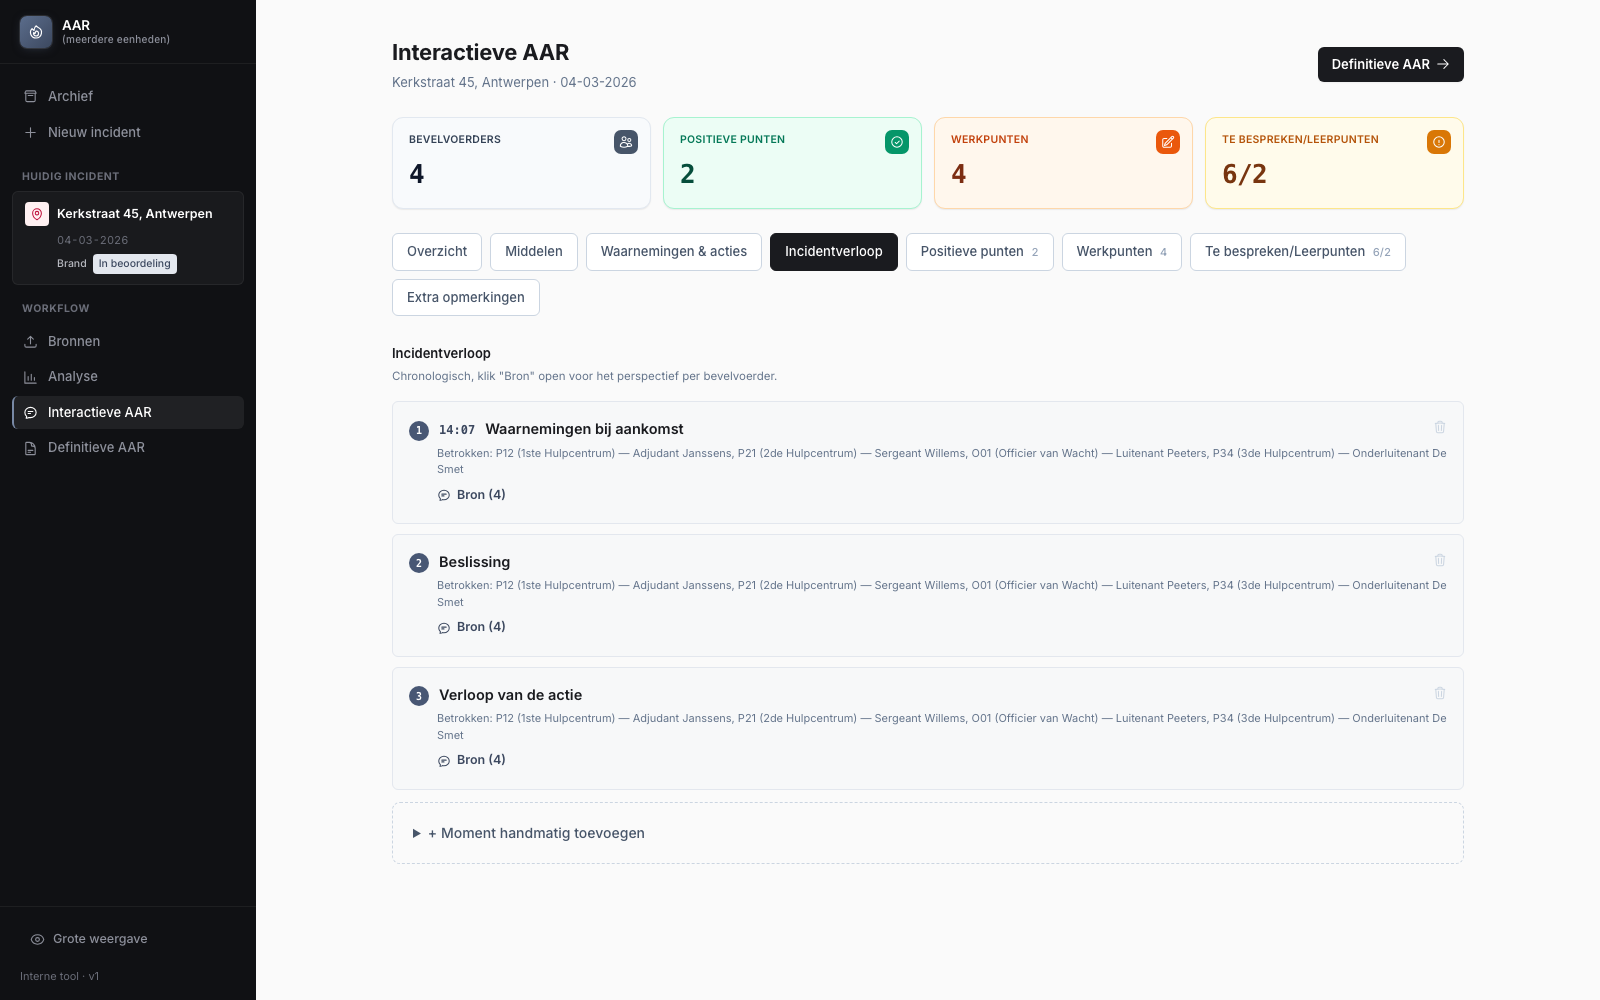
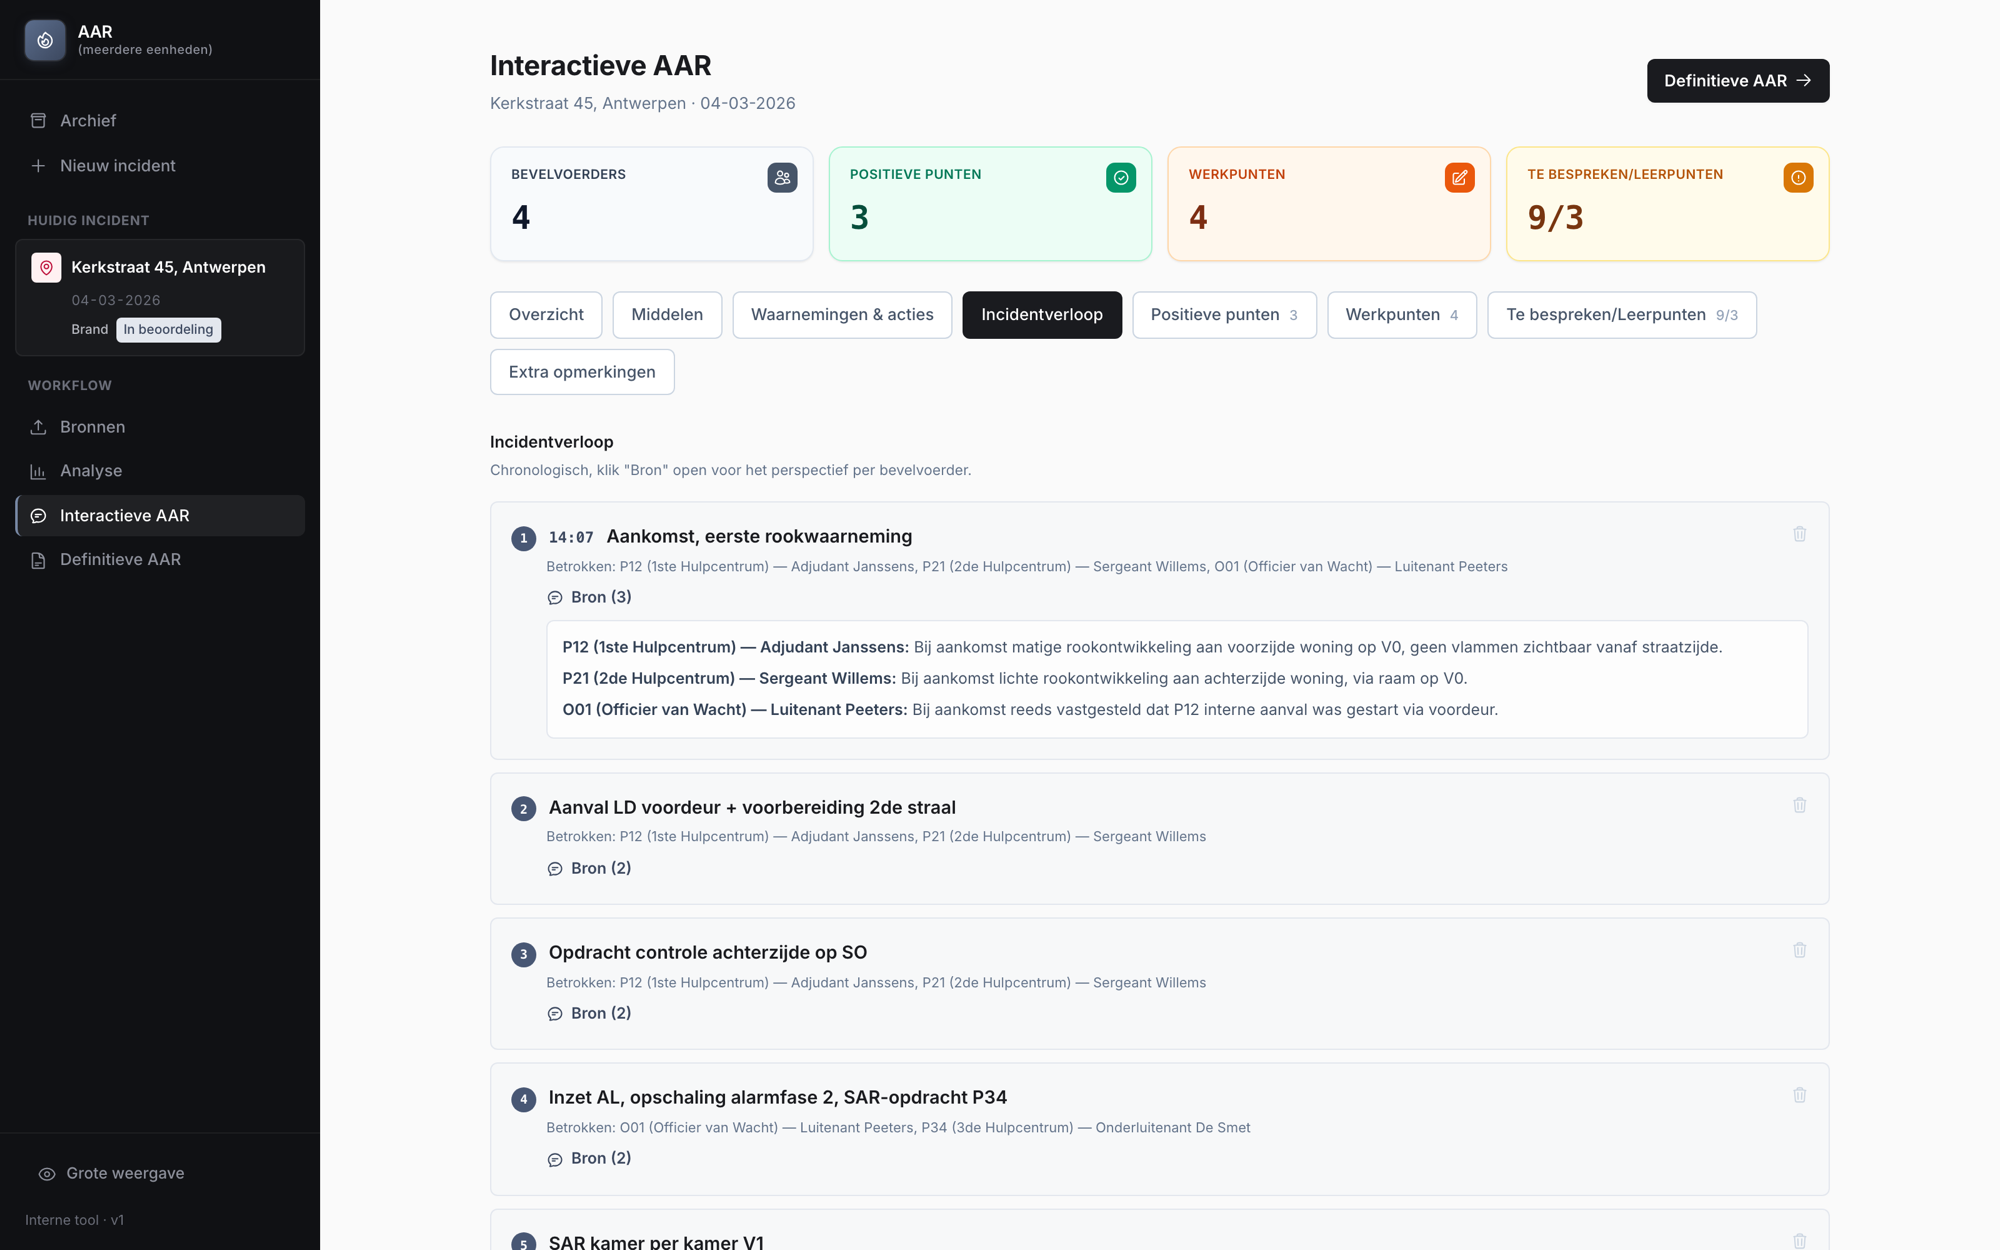
Replace README screenshots with a real Claude analysis of the demo incident

diff --git a/README.md b/README.md
@@ -12,7 +12,7 @@
 >
 > Built for fire services, but adaptable to any emergency service (police, EMS, civil protection) or any team that runs After Action Reviews: adapting it means changing the report template, the category labels and the prompts, which are kept in a few central files (`templates/`, `aar/schemas/constants.py`, `aar/ui/labels.py`, `aar/llm/prompts/`), not the analysis pipeline itself.
 
-![Interactive AAR overview (synthetic demo incident)](docs/images/overview.png)
+![Reconstructed incident timeline: each moment shows which commanders were involved and, opened, exactly what each of them reported](docs/images/timeline.png)
 
 ---
 
@@ -23,7 +23,7 @@
 3. **Facilitated review**: an interactive debrief screen with per-commander findings side by side, a compare view, live notes, and full edit control.
 4. **Finalize**: a finished AAR is locked against further edits and stays searchable in the archive. It can be explicitly reopened if needed.
 
-![Reconstructed incident timeline, each moment linked to its sources](docs/images/timeline.png)
+![Discussion points per commander: assumptions and contradictions between reports, surfaced by the analysis for the debrief](docs/images/discussion.png)
 
 *Screenshots show a fully synthetic demo incident. The interface is in Dutch because its users are Flemish fire officers; the code, documentation and tests are in English.*
 
@@ -151,3 +151,8 @@ Working end to end. Currently a single-team tool (one shared login, one SQLite d
 ## Author
 **Domien Darmont**, AI Engineer, Antwerp, Belgium
 GitHub: [@DomienDarmontAntwerpen](https://github.com/DomienDarmontAntwerpen)
+
+## License
+© 2026 Domien Darmont. All rights reserved.
+
+The source code of this project is published for viewing and evaluation only. No permission is granted to copy, modify, distribute or use it, in whole or in part, without prior written consent from the author.
